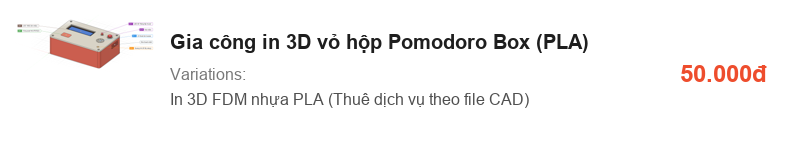
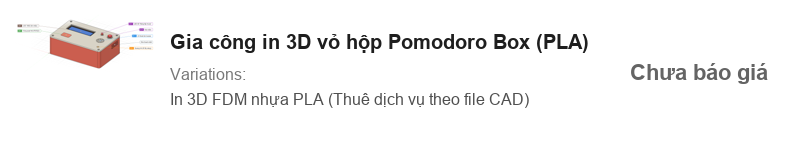
fix(proposal): remove 3D box price from component table and update total electronics budget

Changed region(s): [[0.7716, 0.4062, 0.9568, 0.5312]]

diff --git a/proposal/sections/03_trien_khai.tex b/proposal/sections/03_trien_khai.tex
@@ -26,9 +26,9 @@ Bảng \ref{tab:danh_sach_linh_kien} thống kê danh mục linh kiện điện 
 10 & Thẻ từ RFID Mifare Classic 1K S50 & Kèm bộ & Kèm bộ & \vspace{0.06cm}\includegraphics[width=5.0cm, keepaspectratio]{assets/components/lk_09_rc522.png}\vspace{0.06cm} & \href{https://shopee.vn/product/1536794906/46600584278}{Kèm bộ RC522} & ID 2 \\ \hline
 11 & Bo test cắm Breadboard (Bo test 170 lỗ) & 1 & 19.896 & \vspace{0.06cm}\includegraphics[width=5.0cm, keepaspectratio]{assets/components/lk_10_breadboard.png}\vspace{0.06cm} & \href{https://shopee.vn/product/1033497197/22573794572}{Shopee Bo test} & Kết nối \\ \hline
 12 & Dây cắm testboard Đực - Cái 20cm (40 sợi) & 1 tép & 26.200 & \vspace{0.06cm}\includegraphics[width=5.0cm, keepaspectratio]{assets/components/lk_11_dupont.png}\vspace{0.06cm} & \href{https://shopee.vn/product/1630031661/52967044042}{Shopee Dây cắm} & Kết nối \\ \hline
-13 & Vỏ hộp thiết bị (In 3D FDM nhựa PLA thuê ngoài) & 1 & 50.000 & \vspace{0.06cm}\includegraphics[width=5.0cm, keepaspectratio]{assets/components/lk_12_hop_in3d.png}\vspace{0.06cm} & Dịch vụ in 3D thuê & Vỏ hộp \\ \hline
+13 & Vỏ hộp thiết bị (In 3D FDM nhựa PLA thuê ngoài) & 1 & ---* & \vspace{0.06cm}\includegraphics[width=5.0cm, keepaspectratio]{assets/components/lk_12_hop_in3d.png}\vspace{0.06cm} & Dịch vụ in 3D thuê & Vỏ hộp \\ \hline
 14 & Cáp Micro-USB và nguồn cấp 5V 1A & 1 & 0 & \vspace{0.06cm}\includegraphics[width=5.0cm, keepaspectratio]{assets/components/lk_13_cap_nguon.png}\vspace{0.06cm} & Đã có sẵn của nhóm & Nguồn điện \\ \hline
-\multicolumn{4}{|r|}{\textbf{Tổng chi phí dự kiến:}} & \multicolumn{3}{>{\raggedright\arraybackslash}p{9.1cm}|}{\textbf{453.749 VNĐ} \newline (\textit{Bốn trăm năm mươi ba nghìn bảy trăm bốn mươi chín đồng})} \\ \hline
+\multicolumn{4}{|r|}{\textbf{Tổng chi phí linh kiện:}} & \multicolumn{3}{>{\raggedright\arraybackslash}p{9.1cm}|}{\textbf{403.749 VNĐ} \newline (\textit{Bốn trăm lẻ ba nghìn bảy trăm bốn mươi chín đồng, *chưa tính phí in 3D vỏ hộp})} \\ \hline
 \caption{Danh mục linh kiện điện tử và dự trù kinh phí thực hiện sản phẩm}
 \label{tab:danh_sach_linh_kien}
 \end{longtable}
